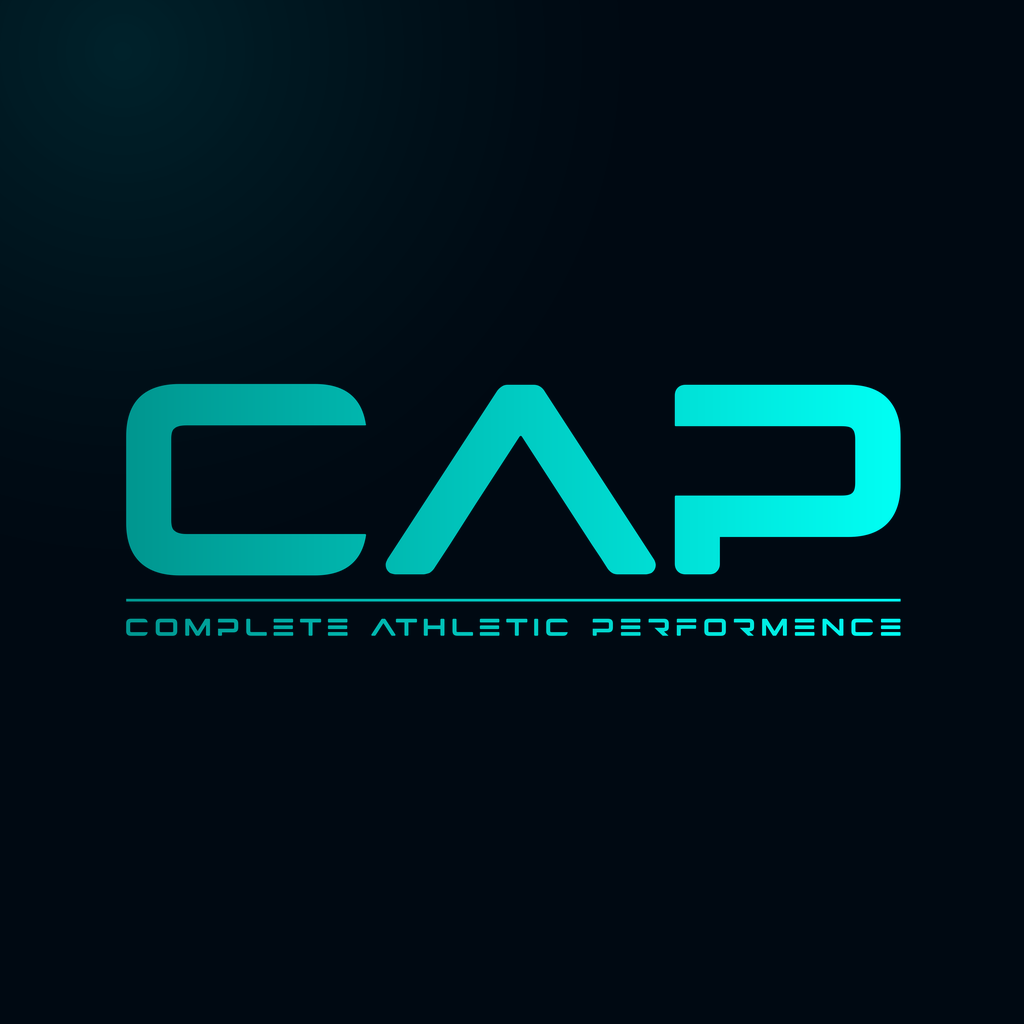
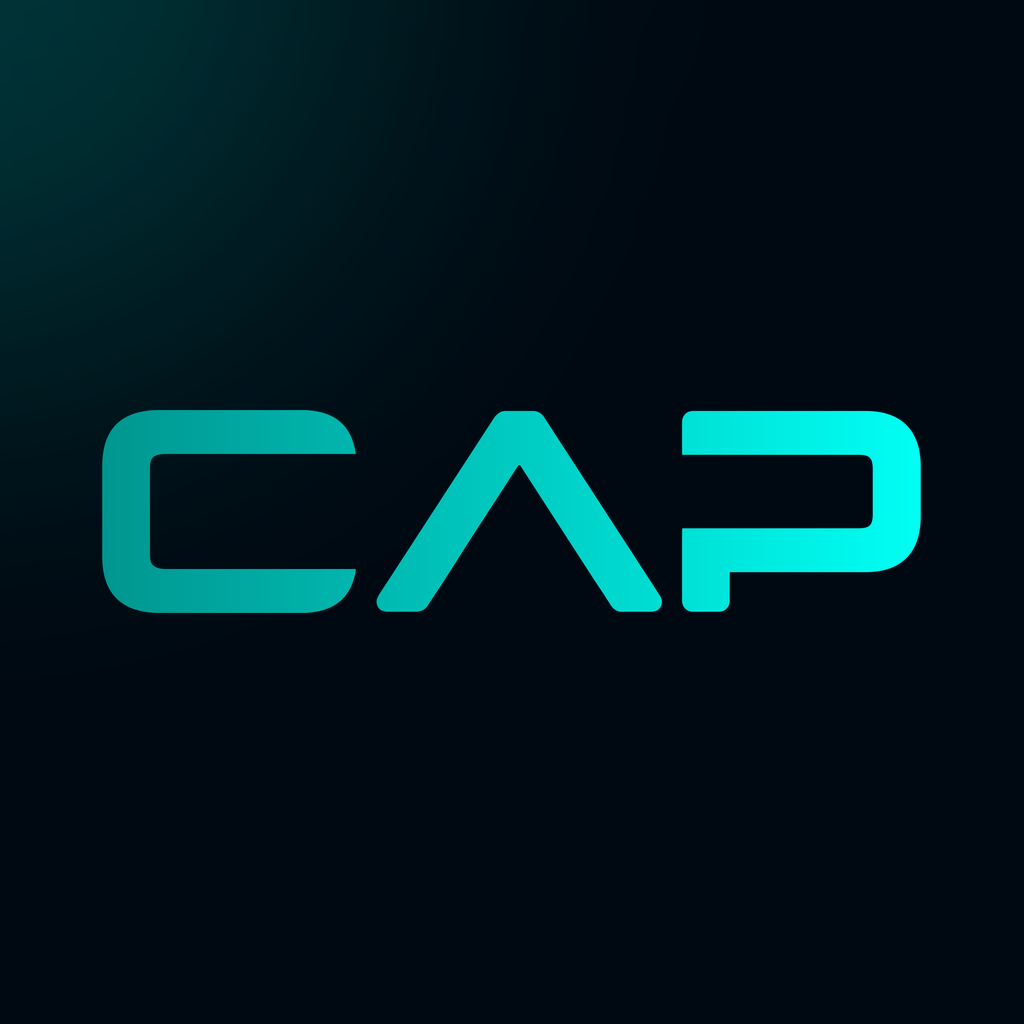
feat(app): tydligare appikon – bara CAP-bokstäverna, läsbar i 60 px (varianter i tools/app-ikon.py --preview)

Changed region(s): [[0.0938, 0.375, 0.9062, 0.625], [0.0, 0.0, 0.0312, 0.0312]]

diff --git a/tools/app-ikon.py b/tools/app-ikon.py
@@ -1,67 +1,189 @@
-"""Appikon (1024²) och startbild (2732²) för iOS-appen: CAP-loggan på mörk botten.
+"""Appikon (1024²) och startbild (2732²) för iOS-appen.
 
-    python tools/app-ikon.py
+    python tools/app-ikon.py --preview          # ritar alla varianter i hemskärmsstorlek → app/ikon/preview.png
+    python tools/app-ikon.py --val wordmark      # bygger in vald variant (standard: wordmark)
+    python tools/app-ikon.py --val tile
 
-Skriver app/ios/App/App/Assets.xcassets/AppIcon.appiconset/AppIcon-512@2x.png
-och de tre splash-2732x2732*.png i Splash.imageset, samt kopior i app/ikon/.
-Patchar också Info.plist: bara stående läge på iPhone, svenska, ingen kryptering.
+Varianter:
+  wordmark  bara bokstäverna CAP i teal på mörk botten, stora (läsbara i 60 px)
+  tile      teal gradient som platta, bokstäverna i mörkt (som spelarkortet)
+  white     bokstäverna i vitt på mörk botten, teal linje under
+  full      hela loggan med underraden (den första varianten)
+
+Skriver AppIcon-512@2x.png i AppIcon.appiconset och splash-2732x2732*.png i Splash.imageset,
+samt kopior i app/ikon/. Patchar också Info.plist (stående läge på iPhone, sv, ingen kryptering).
 """
 import re
+import sys
 from pathlib import Path
 
-from PIL import Image, ImageDraw
+from PIL import Image, ImageDraw, ImageFilter
 
 ROOT = Path(__file__).resolve().parent.parent
 IOS = ROOT / "app" / "ios" / "App" / "App"
+OUT = ROOT / "app" / "ikon"
 BG = (0, 9, 18)
+INK = (0, 36, 42)
 
 
-def canvas(size, glow):
+def logo_full():
+    return Image.open(ROOT / "assets" / "cap-logo.png").convert("RGBA")
+
+
+def logo_letters():
+    """Bara bokstäverna: skär bort linjen och underraden med hjälp av alfakanalen."""
+    img = logo_full()
+    a = img.split()[3]
+    w, h = img.size
+    rows = [sum(1 for x in range(0, w, 4) if a.getpixel((x, y)) > 40) for y in range(h)]
+    # första tomma raden efter bokstavsblocket (blocket börjar vid första fyllda raden)
+    start = next(y for y in range(h) if rows[y])
+    end = next(y for y in range(start, h) if not rows[y])
+    return img.crop((0, 0, w, end)).crop(img.crop((0, 0, w, end)).getbbox())
+
+
+def recolor(img, rgb):
+    """Samma form, enfärgad."""
+    out = Image.new("RGBA", img.size, rgb + (0,))
+    out.putalpha(img.split()[3])
+    return out
+
+
+def gradient(size, horizontal=True):
+    g = Image.new("RGB", (size, size))
+    d = ImageDraw.Draw(g)
+    stops = [(0.0, (10, 158, 154)), (0.55, (0, 212, 203)), (1.0, (0, 240, 255))]
+    for i in range(size):
+        t = i / (size - 1)
+        for (t0, c0), (t1, c1) in zip(stops, stops[1:]):
+            if t0 <= t <= t1:
+                k = (t - t0) / (t1 - t0)
+                c = tuple(int(c0[j] + (c1[j] - c0[j]) * k) for j in range(3))
+                break
+        if horizontal:
+            d.line([(i, 0), (i, size)], fill=c)
+        else:
+            d.line([(0, i), (size, i)], fill=c)
+    if not horizontal:
+        return g
+    # vrid lutningen utan svarta hörn: rita större, vrid, beskär mitten
+    big = g.resize((size * 2, size * 2))
+    big = big.rotate(-20, resample=Image.BICUBIC, expand=False)
+    o = size // 2
+    return big.crop((o, o, o + size, o + size))
+
+
+def dark(size, glow=True):
     img = Image.new("RGB", (size, size), BG)
     if glow:
-        # mjukt teal-sken uppe till vänster, som på webbens kort
-        g = Image.new("RGB", (size, size), BG)
-        d = ImageDraw.Draw(g)
-        for i in range(60, 0, -1):
-            r = int(size * 0.55 * i / 60)
-            a = int(26 * (1 - i / 60) ** 1.5) + 0
-            d.ellipse([size * 0.12 - r, size * 0.05 - r, size * 0.12 + r, size * 0.05 + r], fill=(0, 9 + a, 18 + a))
-        img = g
+        layer = Image.new("RGB", (size, size), BG)
+        d = ImageDraw.Draw(layer)
+        r = int(size * 0.7)
+        d.ellipse([-r // 2, -r // 2, r // 2, r // 2], fill=(0, 60, 62))
+        layer = layer.filter(ImageFilter.GaussianBlur(size * 0.18))
+        img = Image.blend(img, layer, 0.9)
     return img
 
 
-def place_logo(img, width_ratio):
-    logo = Image.open(ROOT / "assets" / "cap-logo.png").convert("RGBA")
+def place(img, logo, width_ratio, dy=0):
     w = int(img.width * width_ratio)
     h = int(logo.height * w / logo.width)
     logo = logo.resize((w, h), Image.LANCZOS)
-    img.paste(logo, ((img.width - w) // 2, (img.height - h) // 2), logo)
+    img.paste(logo, ((img.width - w) // 2, (img.height - h) // 2 + dy), logo)
     return img
 
 
-def main():
-    out = ROOT / "app" / "ikon"
-    out.mkdir(exist_ok=True)
-    icon = place_logo(canvas(1024, glow=True), 0.78)
-    icon.save(out / "AppIcon-1024.png")
+def variant(name, size=1024):
+    if name == "full":
+        return place(dark(size), logo_full(), 0.78)
+    if name == "wordmark":
+        return place(dark(size), logo_letters(), 0.80)
+    if name == "white":
+        img = place(dark(size), recolor(logo_letters(), (253, 253, 253)), 0.78, dy=-int(size * 0.03))
+        d = ImageDraw.Draw(img)
+        y = int(size * 0.69)
+        d.rounded_rectangle([int(size * 0.14), y, int(size * 0.86), y + int(size * 0.022)], radius=int(size * 0.011), fill=(0, 212, 203))
+        return img
+    if name == "tile":
+        g = gradient(size)
+        # mjuk ljusning uppe till höger som på spelarkortet
+        hl = Image.new("L", (size, size), 0)
+        ImageDraw.Draw(hl).ellipse([int(size * 0.45), -int(size * 0.5), int(size * 1.5), int(size * 0.55)], fill=90)
+        hl = hl.filter(ImageFilter.GaussianBlur(size * 0.12))
+        g = Image.composite(Image.new("RGB", (size, size), (255, 255, 255)), g, hl.point(lambda v: int(v * 0.35)))
+        return place(g, recolor(logo_letters(), INK), 0.80)
+    sys.exit(f"okänd variant {name}")
+
+
+def rounded(img, radius_ratio=0.2237):
+    """iOS-formen för förhandsvisningen."""
+    m = Image.new("L", img.size, 0)
+    ImageDraw.Draw(m).rounded_rectangle([0, 0, img.width - 1, img.height - 1], radius=int(img.width * radius_ratio), fill=255)
+    out = Image.new("RGBA", img.size)
+    out.paste(img, (0, 0), m)
+    return out
+
+
+def preview(names):
+    from PIL import ImageFont
+    font = ImageFont.truetype("C:/Windows/Fonts/arialbd.ttf", 26)
+    small = ImageFont.truetype("C:/Windows/Fonts/arial.ttf", 20)
+    cell, pad = 300, 30
+    sheet = Image.new("RGB", (pad + len(names) * (cell + pad), 560), (24, 24, 28))
+    d = ImageDraw.Draw(sheet)
+    for i, n in enumerate(names):
+        x = pad + i * (cell + pad)
+        v = variant(n, 512)
+        big = rounded(v.resize((180, 180), Image.LANCZOS))
+        sheet.paste(big, (x + 60, 40), big)
+        d.text((x + 150 - d.textlength(n, font=font) / 2, 236), n, font=font, fill=(240, 240, 240))
+        # hemskärm: 60 px på ljus och mörk botten, 29 px i inställningar
+        for j, bg in enumerate([(235, 235, 240), (10, 10, 14)]):
+            d.rectangle([x, 290 + j * 130, x + cell, 290 + j * 130 + 110], fill=bg)
+            ic = rounded(v.resize((60, 60), Image.LANCZOS))
+            sheet.paste(ic, (x + 40, 290 + j * 130 + 20), ic)
+            ic2 = rounded(v.resize((29, 29), Image.LANCZOS))
+            sheet.paste(ic2, (x + 130, 290 + j * 130 + 35), ic2)
+            d.text((x + 180, 290 + j * 130 + 40), "60 / 29 px", font=small, fill=(120, 120, 120) if j == 0 else (150, 150, 150))
+    OUT.mkdir(exist_ok=True)
+    p = OUT / "preview.png"
+    sheet.save(p)
+    print("förhandsvisning:", p)
+
+
+def apply(name):
+    OUT.mkdir(exist_ok=True)
+    icon = variant(name, 1024)
+    icon.save(OUT / "AppIcon-1024.png")
     icon.save(IOS / "Assets.xcassets" / "AppIcon.appiconset" / "AppIcon-512@2x.png")
-    splash = place_logo(canvas(2732, glow=False), 0.42)
-    splash.save(out / "splash-2732.png")
-    for name in ("splash-2732x2732.png", "splash-2732x2732-1.png", "splash-2732x2732-2.png"):
-        splash.save(IOS / "Assets.xcassets" / "Splash.imageset" / name)
-    print("ikon och startbild skrivna")
+    splash = place(dark(2732, glow=False), logo_letters() if name != "full" else logo_full(), 0.40)
+    splash.save(OUT / "splash-2732.png")
+    for f in ("splash-2732x2732.png", "splash-2732x2732-1.png", "splash-2732x2732-2.png"):
+        splash.save(IOS / "Assets.xcassets" / "Splash.imageset" / f)
+    print(f"ikon ({name}) och startbild skrivna")
 
     plist = IOS / "Info.plist"
     t = plist.read_text(encoding="utf-8")
     t = re.sub(r"<key>UISupportedInterfaceOrientations</key>\s*<array>.*?</array>",
                "<key>UISupportedInterfaceOrientations</key>\n\t<array>\n\t\t<string>UIInterfaceOrientationPortrait</string>\n\t</array>",
                t, count=1, flags=re.S)
-    t = t.replace("<key>CFBundleDevelopmentRegion</key>\n\t<string>en</string>",
-                  "<key>CFBundleDevelopmentRegion</key>\n\t<string>sv</string>\n\t<key>CFBundleLocalizations</key>\n\t<array>\n\t\t<string>sv</string>\n\t</array>")
+    if "CFBundleLocalizations" not in t:
+        t = t.replace("<key>CFBundleDevelopmentRegion</key>\n\t<string>en</string>",
+                      "<key>CFBundleDevelopmentRegion</key>\n\t<string>sv</string>\n\t<key>CFBundleLocalizations</key>\n\t<array>\n\t\t<string>sv</string>\n\t</array>")
     if "ITSAppUsesNonExemptEncryption" not in t:
         t = t.replace("\t<key>LSRequiresIPhoneOS</key>", "\t<key>ITSAppUsesNonExemptEncryption</key>\n\t<false/>\n\t<key>LSRequiresIPhoneOS</key>")
     plist.write_text(t, encoding="utf-8")
-    print("Info.plist: stående läge på iPhone, sv, ITSAppUsesNonExemptEncryption=false")
+    print("Info.plist kontrollerad")
+
+
+def main():
+    sys.stdout.reconfigure(encoding="utf-8")
+    args = sys.argv[1:]
+    if "--preview" in args:
+        preview(["wordmark", "tile", "white", "full"])
+        return
+    name = args[args.index("--val") + 1] if "--val" in args else "wordmark"
+    apply(name)
 
 
 if __name__ == "__main__":
